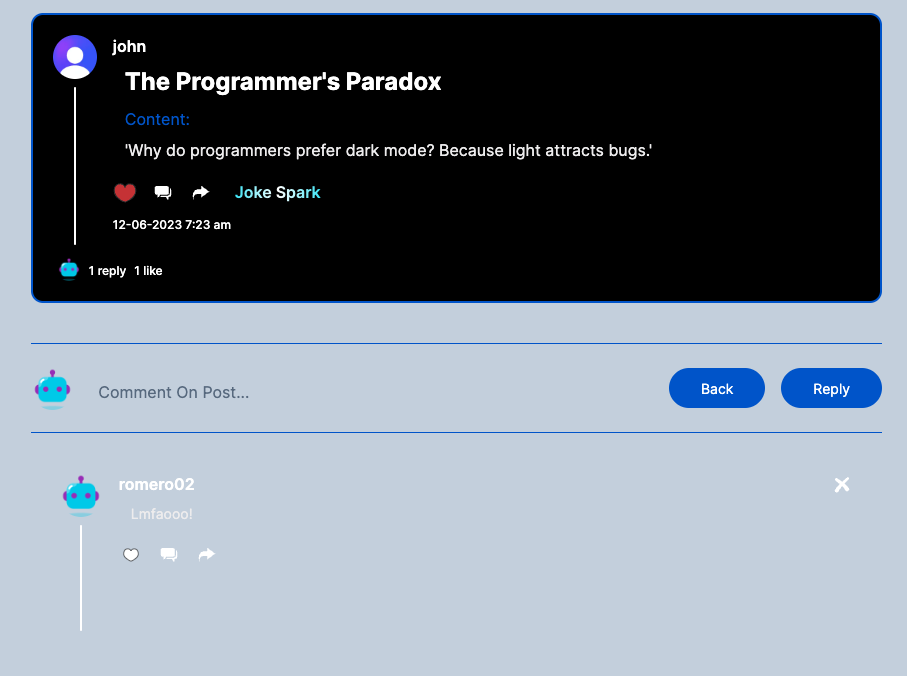
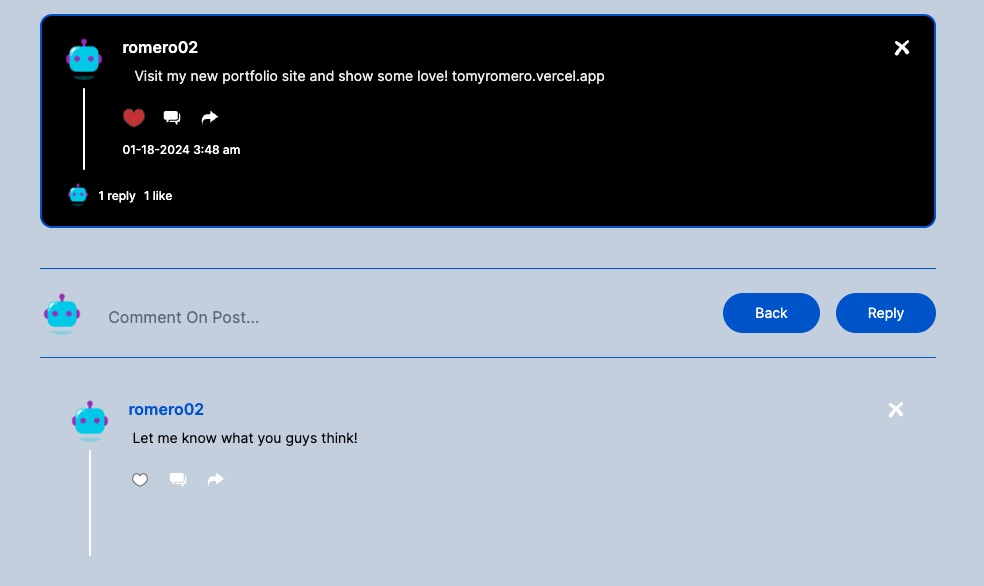
UI fixes, post comment responsivness

diff --git a/components/forms/Comment.tsx b/components/forms/Comment.tsx
@@ -121,15 +121,24 @@ function Comment({ postId, currentUserImg, currentUserId, parentId }: Props) {
             </FormItem>
           )}
         />
-        <Button onClick={goBack} className="comment-form_btn">
+        <Button onClick={goBack} className="comment-form_btn max-md:hidden">
           {!backLoading? <h1>Back</h1> : <Image src={"/assets/lineloader.svg"} alt="loading" width={44} height={34}/> }
         </Button>
 
 
-        <Button type='submit' className='comment-form_btn'>
+        <Button type='submit' className='comment-form_btn max-md:hidden'>
           {!loading? <h1>Reply</h1> : <Image src={"/assets/lineloader.svg"} alt="loading" width={44} height={34}/> }
         </Button>
       </form>
+      <div className="hidden w-full mt-6 ml-auto max-sm:flex justify-end gap-4">
+      <Button onClick={goBack} className="comment-form_btn">
+          {!backLoading? <h1>Back</h1> : <Image src={"/assets/lineloader.svg"} alt="loading" width={44} height={34}/> }
+        </Button>
+
+        <Button type='submit' className='comment-form_btn'>
+          {!loading? <h1>Reply</h1> : <Image src={"/assets/lineloader.svg"} alt="loading" width={44} height={34}/> }
+        </Button>
+        </div>
     </Form>
   );
 }

diff --git a/components/cards/Post.tsx b/components/cards/Post.tsx
@@ -219,7 +219,7 @@ function Post({
 
           <div className='flex w-full flex-col'>
             <Link href={`/profile/${authorId}`} className='w-fit'>
-              <h4 className='cursor-pointer text-base-semibold text-light-1'>
+              <h4 className={`cursor-pointer text-base-semibold text-light-1 ${isComment ? 'text-primary-500' : ''}`}>
                 {username}
               </h4>
             </Link>
@@ -250,7 +250,7 @@ function Post({
              {/* Content For Comment*/}
             {title === 'Comment' && (
               <div>
-              <p className='mt-2 text-small-regular text-light-2 ml-3 overflow-y-auto max-h-30'
+              <p className={`mt-2 text-small-regular  ml-1 overflow-y-auto max-h-30 ${isComment ? 'text-black' : 'text-light-2'}`}
               >{content}</p>
               {content.length > 200 && (
                   <div className="">

diff --git a/app/(root)/post/[id]/page.tsx b/app/(root)/post/[id]/page.tsx
@@ -22,8 +22,6 @@ async function page({ params }: { params: { id: string } }) {
 
  const post = await fetchPostById(params.id);
 
- if(post)  console.log("POST FOUND: ", post)
-
 const kids = post.children ? post.children : []
 
   return (
